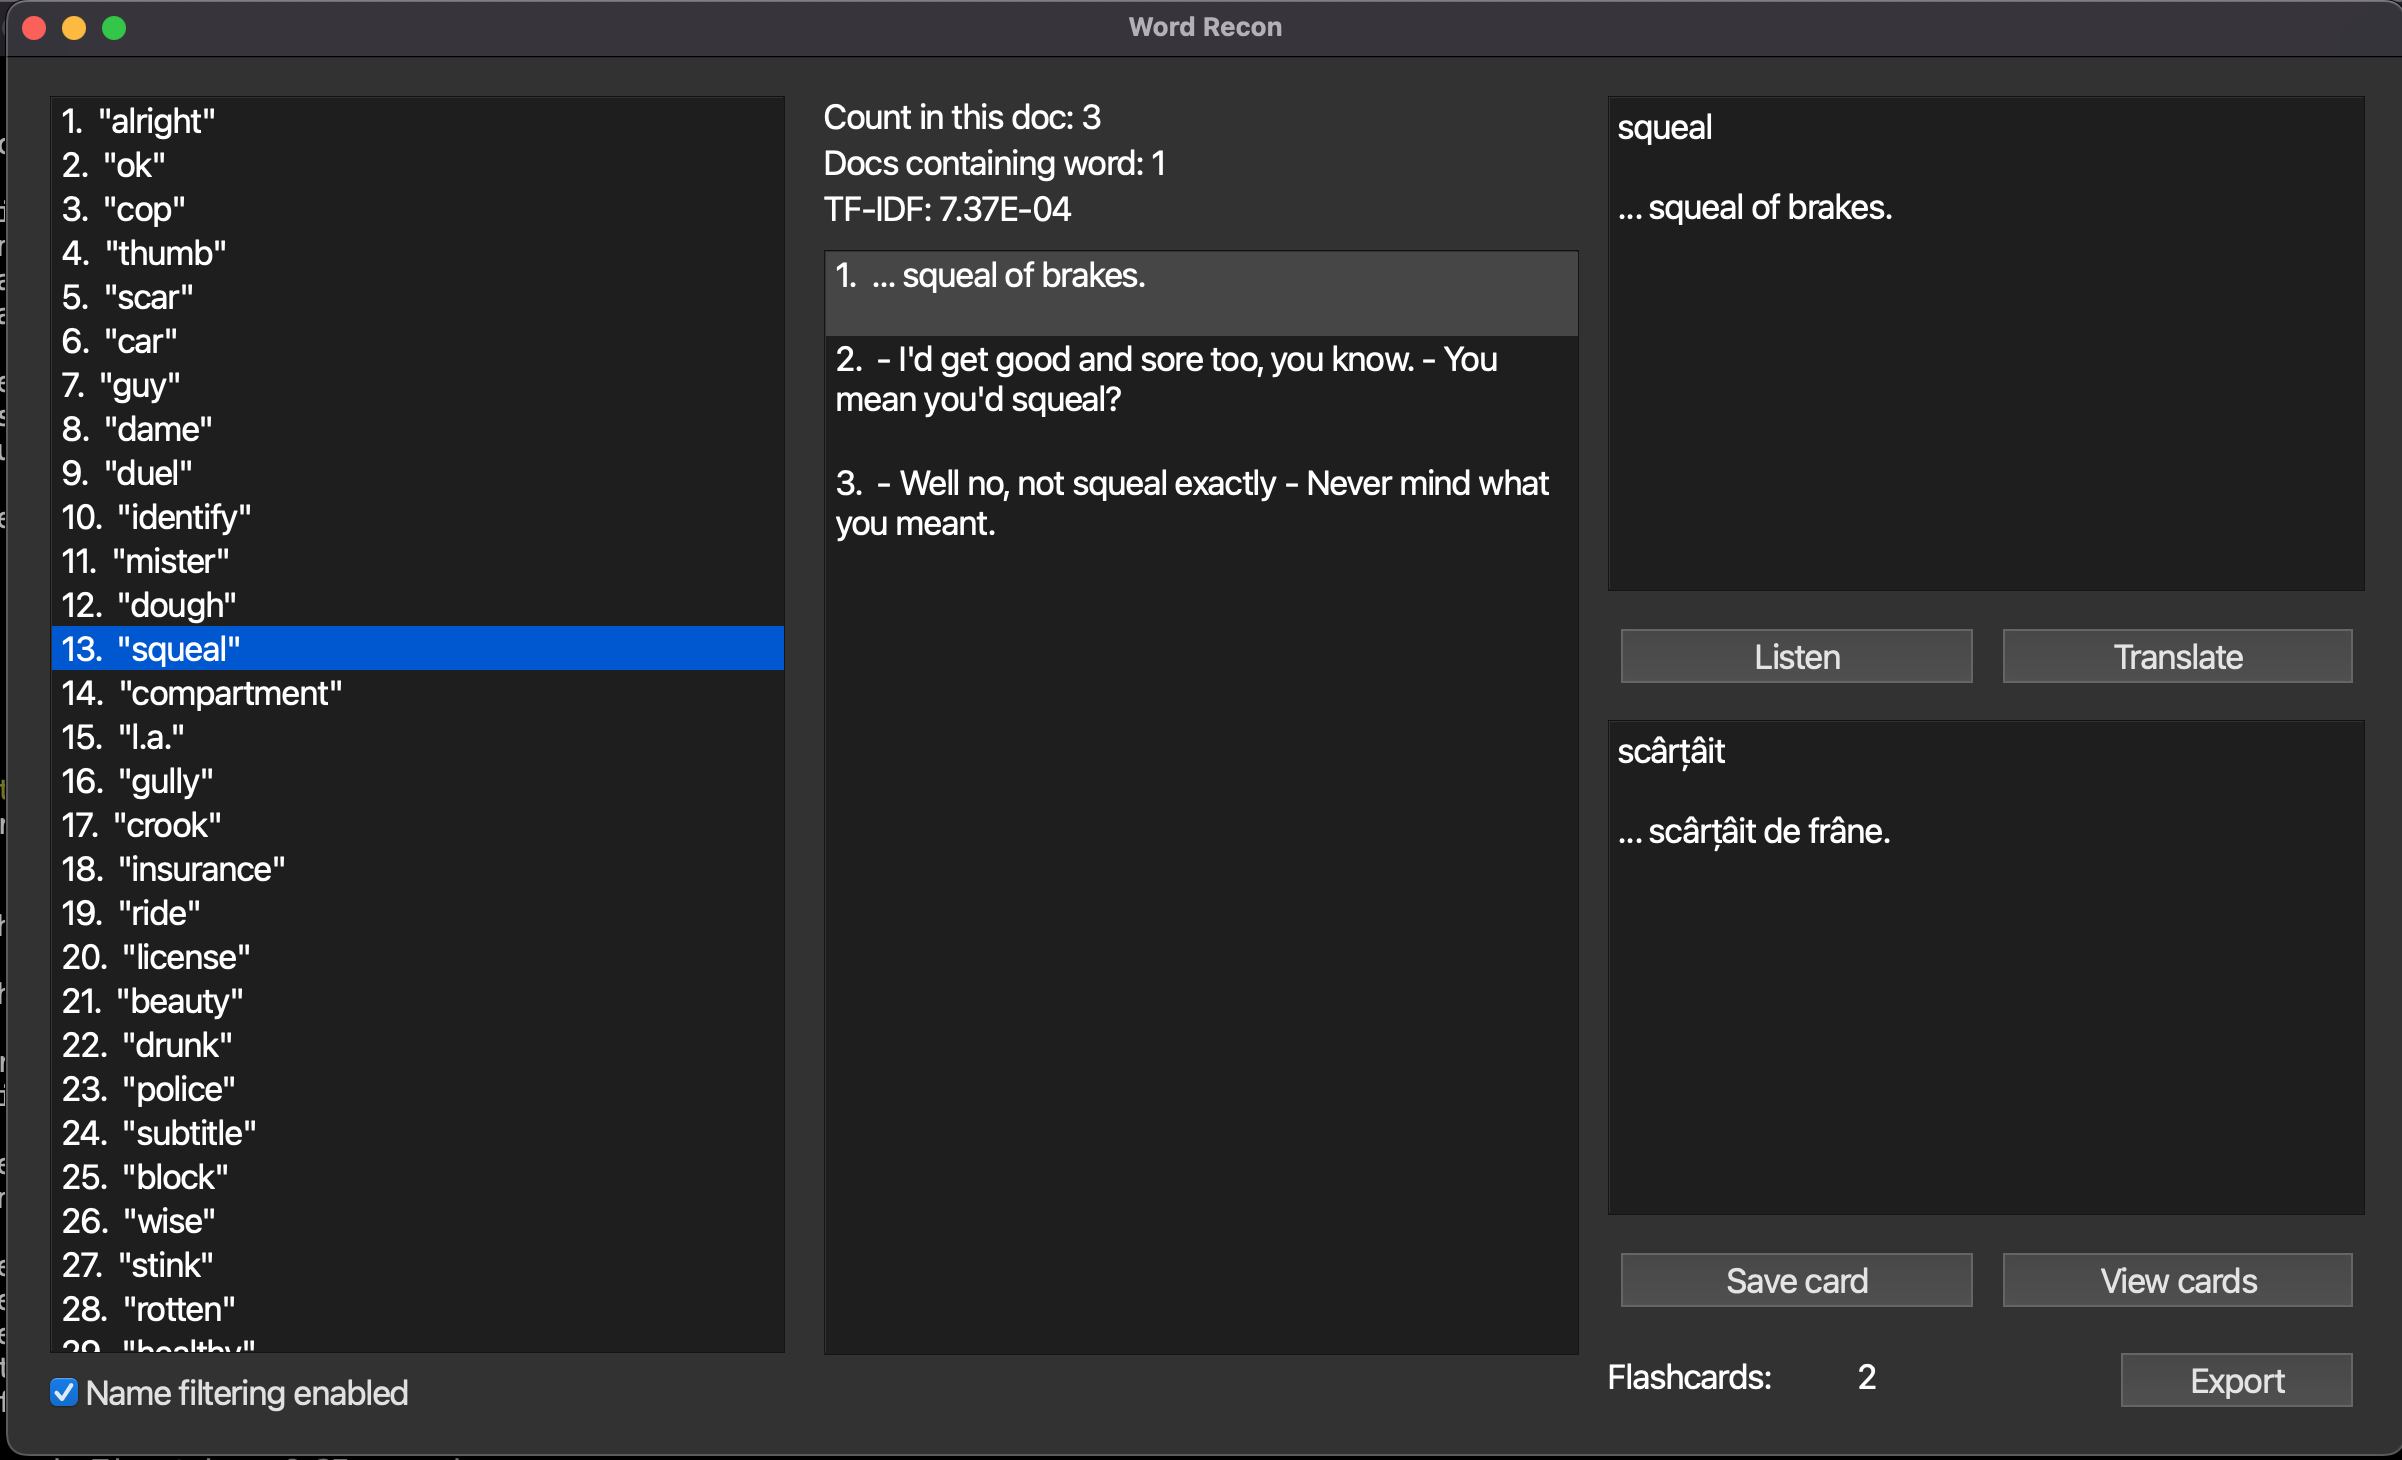
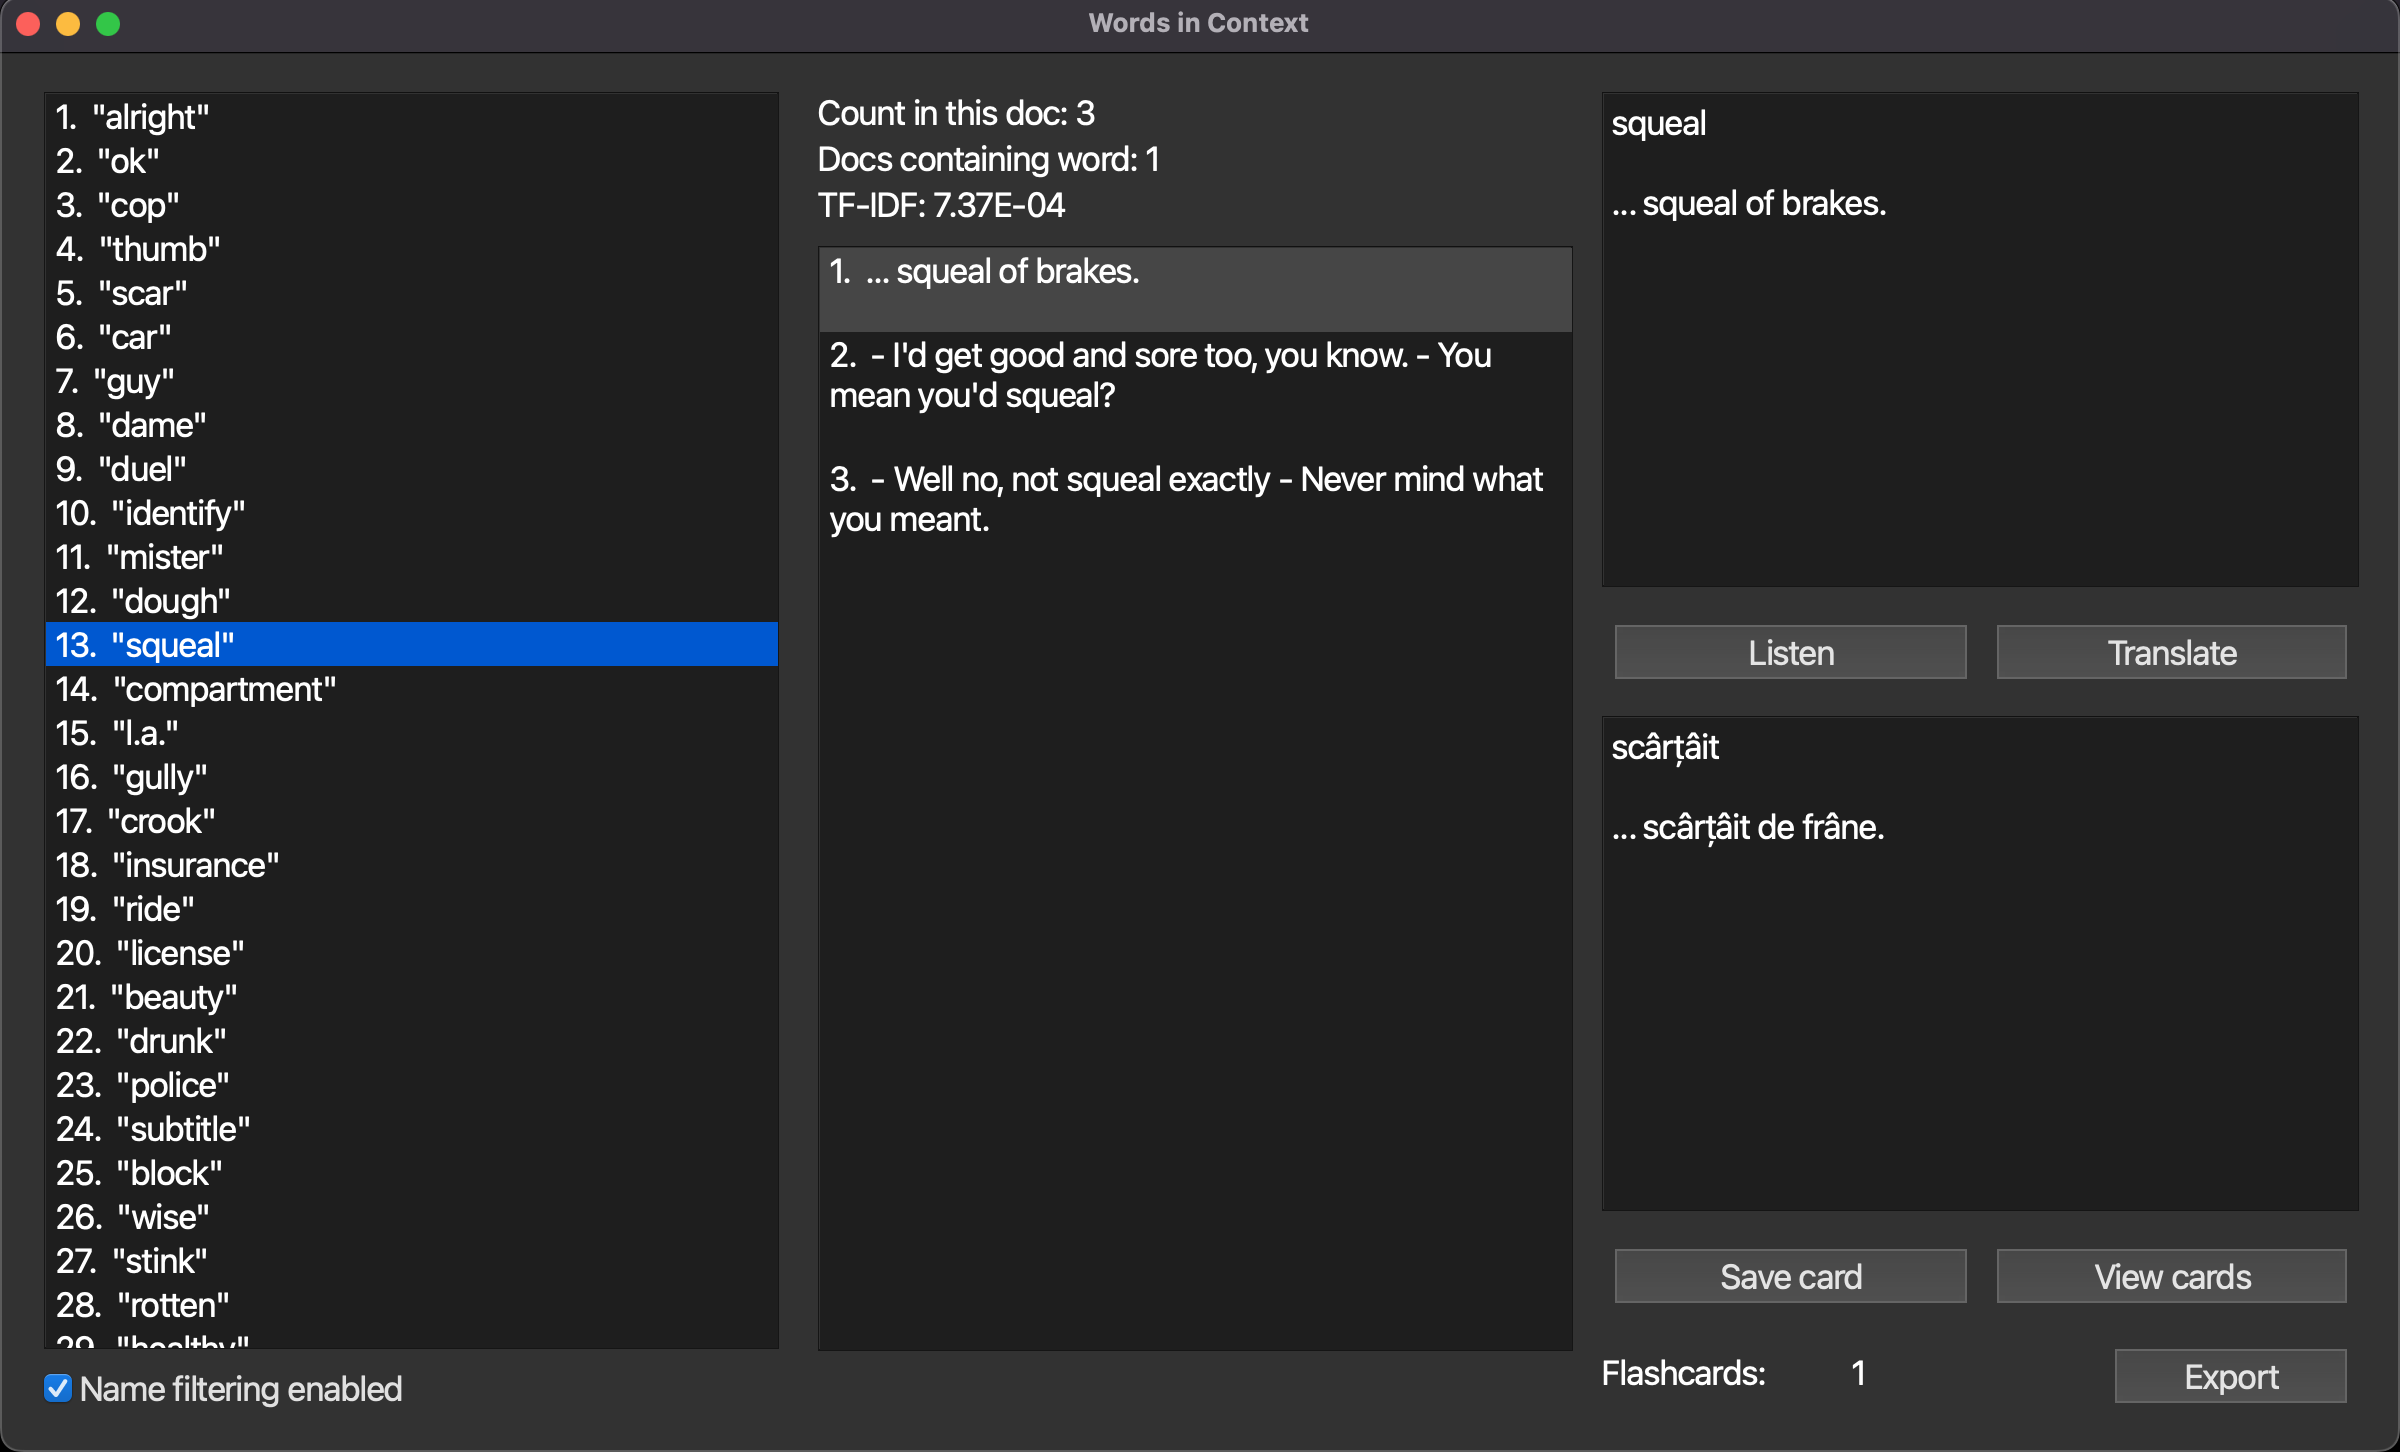
rename project and remove references to old name

diff --git a/gui.py b/gui.py
@@ -506,7 +506,7 @@ class MainWindow( QWidget ):
         self.initUI()
 
     def initUI( self ):
-        self.setWindowTitle( "Word Recon" )
+        self.setWindowTitle( "Words in Context" )
         self.setGeometry( 50, 50, 1200, 700 )
 
         # left layout

diff --git a/README.md b/README.md
@@ -1,6 +1,6 @@
-## *word-recon*: make input comprehensible
+## Make input comprehensible!
 
-![Word Recon](./screenshot.png)
+![Words in Context](./screenshot.png)
 
 ### tldr
 This is a Python desktop app that serves as a language learning companion. It analyzes the given subtitle files in the `data` folder,
